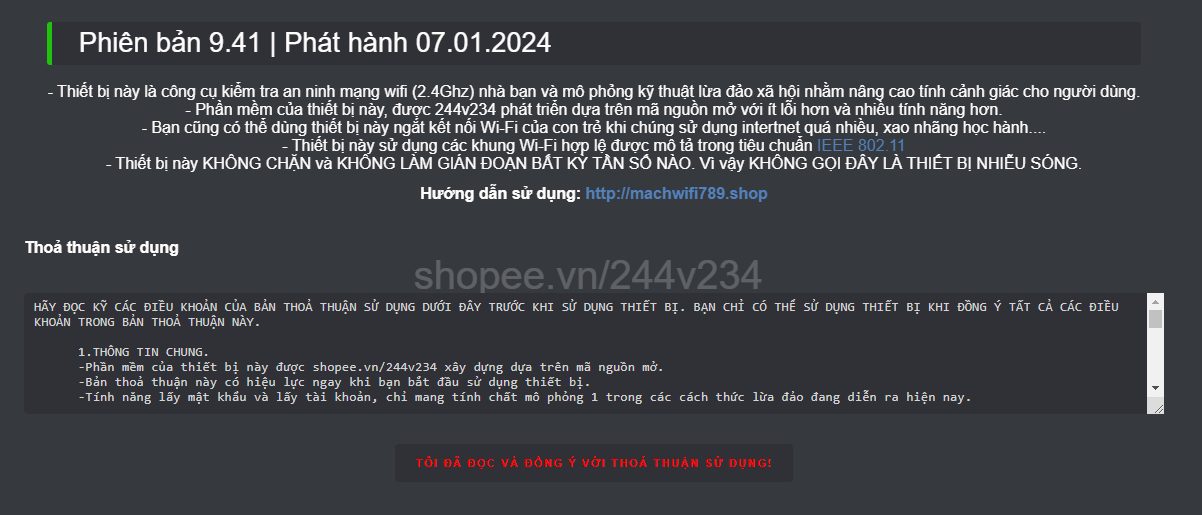
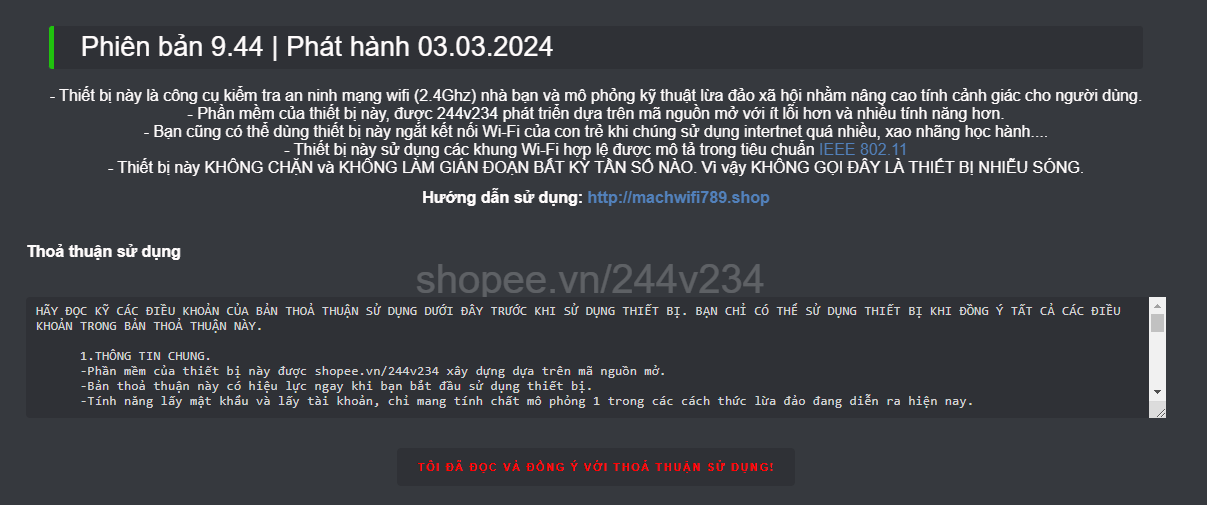
Add files via upload

diff --git a/index.html b/index.html
@@ -493,7 +493,7 @@ input[type="file"] {
 
 <div id="content">
 <img width="100%" src="244v234Logo1.PNG"></img>
-<p class="tab blink"><span style="color:red;">Phiên bản 9.41 | Phát hành 07.01.2024</span></p>
+<p class="tab blink"><span style="color:red;">Phiên bản 9.44 | Phát hành 03.03.2024</span></p>
 <p>Quý khách có nhu cầu mua hàng vui lòng bấm vào link này => <a href="https://shope.ee/8zfF7YazVg" target="_blank">Shopee.vn/244v234</a></p>
 <h1>Giới thiệu</h1>
 <p>- Thiết bị này là công cụ kiểm tra an ninh mạng wifi nhà bạn và mô phỏng kỹ thuật lừa đảo xã hội (mang tính chất giáo dục cho người dùng và cộng đồng).<br> <!--- Được <span style="color:red;">Vuong234</span> phát triển dựa trên mã nguồn mở với ít lỗi hơn và nhiều chức năng hơn.</p> -->
@@ -506,7 +506,7 @@ input[type="file"] {
 3. Sau khi kết nối thành công, mở ứng dụng duyệt web <span style="color:red;">Chrome</span>, Sau đó truy cập vào <span style="color:red;">1.2.3.4</span> (Trong trường hợp bạn truy cập <span style="color:red;">1.2.3.4</span> nhưng không hiện giao diện điều khiển. Vui lòng vào web ở chế độ riêng tư - hay còn gọi là ẩn danh.)<br>
 </p>
 <p>
-- Phiên bản 9.41 | Phát hành 07.01.2024 đang là phiên bản mới nhất<br>
+- Phiên bản 9.44 | Phát hành 03.03.2024 đang là phiên bản mới nhất<br>
 - Hiện tại shop chỉ bán mạch màu xanh, mạch màu đen chất lượng không ổn định nên shop đã ngừng bán.<br>
 - <span style="color:red;">Video giới thiệu tính năng ngắt kết nối và lấy mật khẩu wifi dưới đây là phiên bản cũ 8.2 được tích hợp AI lần đầu tiên.</span><br>
 </p>
